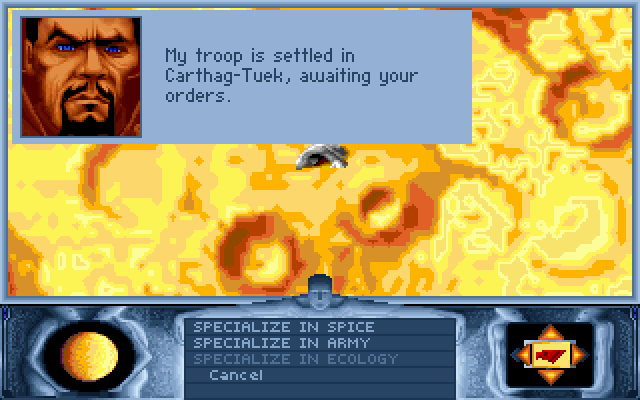
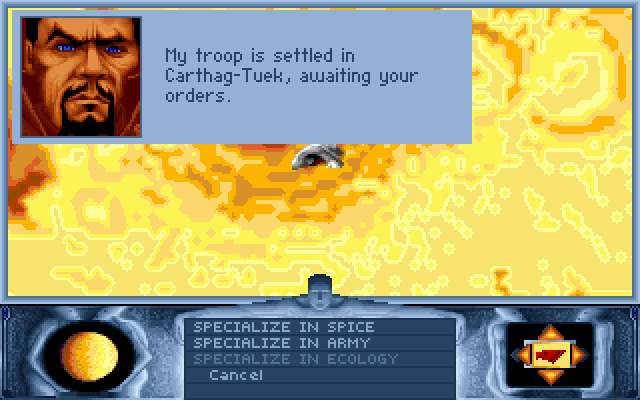
Engine fixes from the floppy video comparison; say sideload instead of naming an install tool; refresh screenshots

diff --git a/third_party/scummvm/engines/dune/scene.cpp b/third_party/scummvm/engines/dune/scene.cpp
@@ -708,7 +708,7 @@ void GameScreen::addRoomRows(RowAction *actions, int *arguments, uint16 *command
 			if (((message & 0x80) != 0) == (_commList == 1))
 				add(kRowCommPick, i, characterName(message & 0x3f));
 		}
-		add(kRowCommCancel, 0, "  Cancel");
+		add(kRowCommCancel, 0, "Cancel", true);
 		return;
 	}
 	const byte phase = _state.b(GameState::kPhase);
@@ -796,7 +796,9 @@ void GameScreen::drawRoom(int pressedRow, int pressedArrow) {
 			exits[d] = false;
 	_panel.setLeftPanel(Panel::kLeftBook);
 	_panel.setCompanions(_world.companion(0), _world.companion(1));
+	_panel.setCompassBlank(_sceneActive);
 	_panel.draw(_surface, exits, pressedRow, pressedArrow, day());
+	_panel.setCompassBlank(false);
 
 	debugSetRoom((int)_room);
 	debugOverlay(*_surface.surfacePtr());
@@ -980,7 +982,7 @@ void GameScreen::drawMapScreen() {
 		add(kRowExitMap, 0, "EXIT MAPS");
 		if (_map->selecting() && _movingTroop) {
 			if (_map->destination() >= 0)
-				add(kRowMoveDone, _map->destination(), "  Done");
+				add(kRowMoveDone, _map->destination(), "Done", true); // "  Done" on the CD, "Done" on the floppy
 		} else if (_map->selecting() && (_map->destination() >= 0 || _map->destination() == -2)) {
 			if (_riding)
 				add(kRowWormTravel, _map->destination(), "GO THERE RIDING A WORM");
@@ -1180,11 +1182,13 @@ uint GameScreen::parkedOrnis() const {
 void GameScreen::drawOrni(Graphics::Surface &target, int x, int y, uint frame) {
 	// sub_13aa9: the body (ORNYTK 0), the hub (1) at +(6,30), the legs
 	// (2 + clamp(frame - 15, 0, 5)) at +(4,50), the wings (8 + min(frame, 14))
-	// at +(-81,-3). The sheet has no palette: it wears the room's colours.
+	// at +(-81,-3). The sheet's palette chunk sets 80-96, its brown body and
+	// green canopy (without it the outlines take the room's yellows).
 	Common::Array<byte> data;
 	if (!_resources.load("ORNYTK.HSQ", data))
 		return;
 	Sprite orni(_system, data);
+	orni.setPalette();
 	orni.drawFrame(0, &target, x, y);
 	orni.drawFrame(1, &target, x + 6, y + 30);
 	orni.drawFrame((uint16)(2 + CLIP<int>((int)frame - 15, 0, 5)), &target, x + 4, y + 50);
@@ -1252,13 +1256,16 @@ void GameScreen::openMirror() {
 
 void GameScreen::drawMirror() {
 	// callback_transition_look_at_mirror (seg000:0ed0): MIRROR.HSQ's
-	// reflected bedroom (frame 1), Paul's face, then the gilt frame (2);
+	// reflected bedroom (frames 0 and 1), Paul's face, then the gilt frame (2);
 	// the menu is RESTART / LOAD / SAVE / EXIT GAME and Look away (ds:1d1e).
 	_surface.fillRect(Common::Rect(0, 0, 320, 200), 0);
 	Common::Array<byte> data, paul;
 	if (_resources.load("MIRROR.HSQ", data)) {
 		Sprite mirror(_system, data);
 		mirror.setPalette();
+		// The reflected bedroom is two frames: 0 (colours 129-141, the walls,
+		// door and shelves) and 1 (144-158); the recording shows both.
+		mirror.drawFrame(0, _surface.surfacePtr(), 0, 0);
 		mirror.drawFrame(1, _surface.surfacePtr(), 0, 0);
 		if (_resources.load("PAUL.HSQ", paul)) {
 			Sprite face(_system, paul);
@@ -1292,7 +1299,9 @@ void GameScreen::drawMirror() {
 	_panel.setLeftPanel(Panel::kLeftBook);
 	_panel.setCompanions(_world.companion(0), _world.companion(1));
 	const bool exits[4] = { false, false, false, false };
+	_panel.setCompassBlank(true); // the mirror's compass screen is dark
 	_panel.draw(_surface, exits, -1, -1, day());
+	_panel.setCompassBlank(false);
 	const byte black[3] = { 0, 0, 0 };
 	_system->getPaletteManager()->setPalette(black, 0, 1);
 	_system->copyRectToScreen(_surface.getPixels(), _surface.pitch, 0, 0, 320, 200);
@@ -1343,6 +1352,7 @@ uint GameScreen::flyToward(uint16 targetLongitude, int16 targetLatitude, int tar
 		desert.dunes = dunes;
 	}
 	const uint32 flightStart = _system->getMillis();
+	uint32 lastTimedDump = 0;
 	const bool cdView = !skipping && !dunes && !_world.floppy() && startCdFlightView();
 	auto present = [&]() {
 		if (cdView) {
@@ -1379,6 +1389,9 @@ uint GameScreen::flyToward(uint16 targetLongitude, int16 targetLatitude, int tar
 		Graphics::Surface view = _surface.surfacePtr()->getSubArea(Common::Rect(0, 0, 320, 152));
 		_surface.fillRect(Common::Rect(0, 0, 320, 200), 0);
 		_panel.applyPalette();
+		// ONMAP's palette under the sky's: the minimap's terrain (20-31) and
+		// the lavender-blue panel and minimap frame of the recordings (240-254).
+		_map->applyPalette();
 		drawSky(_system, _resources, view, kSkyNarrow, 320, skyPalette());
 		desert.render(view, _system->getMillis() - flightStart);
 		_map->drawMinimap(_surface, Common::Rect(202, 3, 318, 61), _panel);
@@ -1394,6 +1407,11 @@ uint GameScreen::flyToward(uint16 targetLongitude, int16 targetLatitude, int tar
 		_panel.draw(_surface, exits, -1, -1, day());
 		_system->copyRectToScreen(_surface.getPixels(), _surface.pitch, 0, 0, 320, 200);
 		_system->updateScreen();
+		// dune_dump_every samples the real-time flight too (flight-rt-<ms>).
+		if (dumpEveryMillis() && _system->getMillis() - lastTimedDump >= dumpEveryMillis()) {
+			lastTimedDump = _system->getMillis();
+			dumpScreen(_system, Common::String::format("flight-rt-%06u", lastTimedDump - flightStart).c_str());
+		}
 	};
 	uint32 next = _system->getMillis();
 	uint periods = 0;
@@ -1415,6 +1433,7 @@ uint GameScreen::flyToward(uint16 targetLongitude, int16 targetLatitude, int tar
 			Graphics::Surface view = _surface.surfacePtr()->getSubArea(Common::Rect(0, 0, 320, 152));
 			_surface.fillRect(Common::Rect(0, 0, 320, 200), 0);
 			_panel.applyPalette();
+			_map->applyPalette();
 			drawSky(_system, _resources, view, kSkyNarrow, 320, skyPalette());
 			desert.render(view, frozen);
 			_map->drawMinimap(_surface, Common::Rect(202, 3, 318, 61), _panel);
@@ -1897,7 +1916,7 @@ void GameScreen::drawTroop() {
 			drawEquipmentPanel(Common::Rect(panel.left + 0x49, panel.top + 3, panel.left + 0x49 + 153, panel.top + 3 + 63));
 			RowAction a[1] = { kRowEquipDone };
 			int g[1] = { 0 };
-			uint16 c[1] = { _panel.findCommand("  Done") };
+			uint16 c[1] = { _panel.findCommand("Done", true) }; // "  Done" on the CD, "Done" on the floppy
 			setRows(a, g, c, c[0] != 0xffff ? 1 : 0);
 			_panel.setLeftPanel(Panel::kLeftGlobe);
 			const bool noExits[4] = { false, false, false, false };
@@ -2670,6 +2689,10 @@ void GameScreen::drawTalk() {
 		// (paddings 40/16/16/16, seg000:9f40). The balloon starts right of the
 		// speaker's mouth box (talking_head_mouth_box_table, ds:27fa), which
 		// is where the recording's balloons begin (Leto 135, the Fremen ~155).
+		// The three voice balloons (ds:2224): the first whose height fits
+		// (paddings 40/16/16/16, seg000:9f40). The balloon starts right of the
+		// speaker's mouth box (talking_head_mouth_box_table, ds:27fa). The
+		// user prefers these smaller balloons to the recordings' larger ones.
 		static const int16 kBalloons[3][4] = { { 80, 14, 192, 72 }, { 80, 16, 200, 86 }, { 80, 8, 208, 97 } };
 		static const int16 kMouthRight[17] = { 99, 105, 140, 101, 104, 114, 109, 114, 101, 113, 126, 120, 84, 86, 119, 137, 100 };
 		const uint count = MIN<uint>(bubbleLines(), _talkLines.size() - MIN<uint>(_talkLine, _talkLines.size()));
@@ -2694,10 +2717,19 @@ void GameScreen::drawTalk() {
 		}
 	}
 	setTalkRows();
-	const bool exits[4] = { false, false, false, false };
+	// The recordings keep the room's exits lit while someone talks; a
+	// scripted scene's lines show the compass dark.
+	bool exits[4] = { false, false, false, false };
+	if (const RoomRecord *record = currentRoom())
+		for (uint direction = 0; direction < 4 && !_sceneActive && !_desert; ++direction) {
+			const byte e = record->exits[direction];
+			exits[direction] = e != 0 && (e >= World::kExitLeave || !(e & 0x80));
+		}
 	_panel.setLeftPanel(Panel::kLeftBook);
 	_panel.setCompanions(_world.companion(0), _world.companion(1));
+	_panel.setCompassBlank(_sceneActive);
 	_panel.draw(_surface, exits, -1, -1, day());
+	_panel.setCompassBlank(false);
 	debugOverlay(*_surface.surfacePtr());
 	_system->copyRectToScreen(_surface.getPixels(), _surface.pitch, 0, 0, 320, 200);
 	_system->updateScreen();
@@ -2717,11 +2749,14 @@ void GameScreen::drawBubble(const Common::Array<Common::String> &lines, uint fir
 			_panel.drawIcon(tiles, 0x1c, x, y);
 	area.copyRectToSurface(*tiles.surfacePtr(), 0, 0, Common::Rect(0, 0, box.width(), box.height()));
 	tiles.free();
-	const int padding = 12, lineHeight = 10;
-	const int width = box.width() - 2 * padding;
+	const int lineHeight = 10, leftPad = 12, rightPad = 12;
+	const int width = box.width() - leftPad - rightPad;
 	int y = box.top + (box.height() - (int)count * lineHeight) / 2;
 	for (uint i = first; i < first + count && i < lines.size(); ++i, y += lineHeight) {
-		const Common::String &line = lines[i];
+		Common::String line = lines[i];
+		const bool paragraphEnd = !line.empty() && line.lastChar() == '\x01';
+		if (paragraphEnd)
+			line.deleteLastChar();
 		Common::Array<Common::String> words;
 		Common::String word;
 		for (uint k = 0; k <= line.size(); ++k) {
@@ -2733,13 +2768,13 @@ void GameScreen::drawBubble(const Common::Array<Common::String> &lines, uint fir
 				word += line[k];
 			}
 		}
-		const bool last = i + 1 >= lines.size();
+		const bool last = i + 1 >= lines.size() || paragraphEnd;
 		int used = 0;
 		for (uint k = 0; k < words.size(); ++k)
 			used += _panel.textWidth(words[k].c_str(), false);
 		const int gaps = (int)words.size() - 1;
 		const int space = (!last && gaps > 0) ? MAX(3, (width - used) / gaps) : _panel.textWidth(" ", false) + 1;
-		int x = box.left + padding;
+		int x = box.left + leftPad;
 		for (uint k = 0; k < words.size(); ++k) {
 			_panel.drawText(_surface, words[k].c_str(), x, y, ink, false);
 			x += _panel.textWidth(words[k].c_str(), false) + space;

diff --git a/third_party/scummvm/engines/dune/map.cpp b/third_party/scummvm/engines/dune/map.cpp
@@ -77,7 +77,11 @@ byte MapRenderer::mapPixel(uint offset) const {
 }
 
 void MapRenderer::draw(Graphics::Surface &view, int16 latitude, uint16 longitude) {
-	const uint16 top = (uint16)(latitude + 75 + 5);
+	// A latitude is map row latitude + 98 (map_func, seg000:b58b: the TABLAT
+	// row is |latitude|; the globe does the same). The rows were once taken
+	// as latitude + 80, which drew the terrain 18 rows (72 pixels) north of
+	// the places (the floppy recordings: craters beside the palace).
+	const uint16 top = (uint16)(latitude + 98);
 	for (uint16 i = 0; i < kViewRows; ++i)
 		drawBand(view, i, top + i, longitude);
 }
@@ -257,7 +261,7 @@ bool MapRenderer::unproject(int16 latitude, uint16 longitude, int x, int y, int1
 	if (band < 0 || band >= kViewRows)
 		return false;
 	placeLatitude = (int16)(latitude + band);
-	const int row = placeLatitude + 75 + 5;
+	const int row = placeLatitude + 98; // as draw() and project()
 	if (row < kBandBegin || row >= kBandEnd)
 		return false;
 	const int len = rowLength((uint16)row);
@@ -283,8 +287,8 @@ bool MapRenderer::unproject(int16 latitude, uint16 longitude, int x, int y, int1
 
 bool MapRenderer::project(int16 latitude, uint16 longitude, int16 placeLatitude, uint16 placeLongitude,
 		int &x, int &y) const {
-	const int top = latitude + 75 + 5;
-	const int row = placeLatitude + 75 + 5;
+	const int top = latitude + 98;
+	const int row = placeLatitude + 98;
 	const int band = row - top;
 	if (band < 0 || band >= kViewRows || row < kBandBegin || row >= kBandEnd)
 		return false;

diff --git a/third_party/scummvm/engines/dune/panel.cpp b/third_party/scummvm/engines/dune/panel.cpp
@@ -200,9 +200,12 @@ void Panel::draw(Graphics::ManagedSurface &surface, const bool exits[4], int pre
 	icons.drawFrame(_companions[1] != 0xff ? 0x41 + _companions[1] : 64, target, 58, 182);
 
 	// Compass: centre, the position marker, then only the lit directions.
-	icons.drawFrame(33, target, 255, 162);
-	icons.drawFrame(36, target, 269, 173);
-	for (uint arrow = 0; arrow < 4; ++arrow) {
+	// Scripted scenes and the mirror show its screen dark (the recordings).
+	if (!_compassBlank) {
+		icons.drawFrame(33, target, 255, 162);
+		icons.drawFrame(36, target, 269, 173);
+	}
+	for (uint arrow = 0; arrow < 4 && !_compassBlank; ++arrow) {
 		if (!exits[arrow])
 			continue;
 		const Common::Rect rect = arrowRect(arrow);
@@ -266,7 +269,8 @@ Panel::Action Panel::hitTest(int x, int y, int &row, int &arrow) const {
 	return kActionNone;
 }
 
-void Panel::wrapText(const Common::String &text, int width, bool small, Common::Array<Common::String> &lines) const {
+void Panel::wrapText(const Common::String &text, int width, bool small, Common::Array<Common::String> &lines,
+		bool markBreaks) const {
 	Common::String line, word;
 	const uint length = text.size();
 	for (uint i = 0; i <= length; ++i) {
@@ -286,7 +290,8 @@ void Panel::wrapText(const Common::String &text, int width, bool small, Common::
 			word.clear();
 		}
 		if (c == '\r') {
-			lines.push_back(line);
+			// A forced break ends a paragraph: its line is not justified.
+			lines.push_back(markBreaks ? line + '\x01' : line);
 			line.clear();
 		}
 	}

diff --git a/third_party/scummvm/engines/dune/panel.h b/third_party/scummvm/engines/dune/panel.h
@@ -104,6 +104,8 @@ public:
 	 * @param pressedArrow compass arrow to draw pressed, or -1
 	 * @param day          the day counter shown under the book
 	 */
+	/** The compass screen dark (scripted scenes, the mirror), until cleared. */
+	void setCompassBlank(bool blank) { _compassBlank = blank; }
 	void draw(Graphics::ManagedSurface &surface, const bool exits[4], int pressedRow = -1, int pressedArrow = -1,
 			  uint day = 1);
 	/** The period of the day (0-15) for the sun and moon in the book's window (seg000:1a34). */
@@ -125,7 +127,8 @@ public:
 	uint16 findCommand(const char *text, bool prefix = false) const;
 
 	/** Word-wraps @p text to @p width pixels in the small or the 9-row font; '\r' forces a line break. */
-	void wrapText(const Common::String &text, int width, bool small, Common::Array<Common::String> &lines) const;
+	void wrapText(const Common::String &text, int width, bool small, Common::Array<Common::String> &lines,
+			bool markBreaks = false) const;
 	/** The game font: 9-row glyphs at 256, or the 7-row small set at 1408. */
 	void drawText(Graphics::ManagedSurface &surface, const char *text, int x, int y, byte colour, bool small) const;
 	int textWidth(const char *text, bool small) const;
@@ -154,6 +157,7 @@ public:
 	const Common::Array<byte> &characterSheet() const { return _characters; }
 
 private:
+	bool _compassBlank = false;
 	enum {
 		kCommandLeft = 92,
 		kCommandRight = 228,

diff --git a/third_party/scummvm/engines/dune/world.h b/third_party/scummvm/engines/dune/world.h
@@ -157,8 +157,14 @@ public:
 		 * and the game clock advances every 12000 ticks (seg000:ef6a).
 		 */
 		kPeriodMillis = 59906,
-		/** Real milliseconds per flight step (0x300 PIT ticks, seg000:4f0c); a step is one map cell. */
-		kFlightStepMillis = 3834
+		/**
+		 * Real milliseconds per map cell in flight. travel_pump (seg000:4f0c)
+		 * steps every 0x300 ticks of the 200 Hz counter (3.83 s), but the
+		 * floppy recordings show about 0.64 s a cell over several flights
+		 * (Palace -> Carthag-Tuek, 20 cells, about 12 s); the step's distance
+		 * is not decoded yet, so the recordings' pace is used.
+		 */
+		kFlightStepMillis = 640
 	};
 
 	World(GameState &state, Resource &resources, StartupLog &log);

diff --git a/third_party/scummvm/engines/dune/debug.h b/third_party/scummvm/engines/dune/debug.h
@@ -42,7 +42,7 @@ namespace Dune {
 /**
  * Bring-up aids shared by the whole engine. None of this is game logic.
  *
- * Why it exists: the target device (an iPhone, installed through TrollStore)
+ * Why it exists: the target device (an iPhone, the app sideloaded)
  * offers no debugger and no console, and screenshots cannot be taken from the
  * build machine's shell. So the engine writes a plain-text log through the
  * save manager, which the user can copy off the phone, and can dump its own

diff --git a/third_party/scummvm/engines/dune/scene.h b/third_party/scummvm/engines/dune/scene.h
@@ -398,6 +398,7 @@ private:
 	void setTalkRows();
 	void drawBubble(const Common::Array<Common::String> &lines, uint first, uint count, const Common::Rect &box, byte ink);
 	uint bubbleLines() const;
+
 	void presentVerb(uint list);
 	/** set_game_phase_and_trigger_callbacks (seg000:121f). */
 	void setGamePhase(byte phase);

diff --git a/third_party/scummvm/engines/dune/FINDINGS.md b/third_party/scummvm/engines/dune/FINDINGS.md
@@ -703,15 +703,15 @@ track.
 ## Platform and workflow decisions
 
 - **ScummVM engine rather than DOSBox or the C# hybrid**: `README_PLAN.MD`. The
-  DOSBox variant is parked (TrollStore registration error 181).
+  DOSBox variant is parked (the sideloaded app failed with registration error 181).
 - **Desktop first**: every change is checked on the SDL build with screenshot
   dumps before a device build, because a device round trip needs the user
-  (TrollStore install, AirDrop of logs).
+  (sideloading, AirDrop of logs).
 - **Device facts**: iPhone 14 Pro, iOS 16.4.1. `devicectl` can never pair
   (CoreDevice needs iOS 17). `pymobiledevice3` reads the syslog over USB but
-  cannot install an ad-hoc-signed IPA or open the app container (TrollStore
-  registers the app as a System app). The IPA is served over HTTP with an
-  `apple-magnifier://install?url=` link; logs come back by AirDrop.
+  cannot install an ad-hoc-signed IPA or open the app container (the sideloading
+  tool registers the app as a System app). The IPA is served over HTTP with an
+  install link; logs come back by AirDrop.
 - **Audio on iOS**: ScummVM's iOS backend sets no audio session category, so
   the app runs as SoloAmbient and the phone's ring/silent switch mutes it
   entirely; and a single failed `AudioQueueStart` (seen once in a device log as

diff --git a/scripts/PREFLIGHT.md b/scripts/PREFLIGHT.md
@@ -1,6 +1,6 @@
 # Preflight: check every build locally before making an IPA
 
-Installing an IPA costs the user a manual TrollStore transfer and a screen
+Installing an IPA costs the user a manual sideload and a screen
 recording. Never ask for that until the build has passed this check on the Mac.
 
 ## One command
@@ -64,7 +64,7 @@ and the `Audio:` line should say the mixer is ready.
 ## Then, and only then
 
 ```sh
-./scripts/build_dune_scummvm_ios.sh     # ad-hoc signed IPA for TrollStore
+./scripts/build_dune_scummvm_ios.sh     # ad-hoc signed IPA for sideloading
 ```
 
 Check the log ends in `** BUILD SUCCEEDED **`, note the printed SHA-256, and
@@ -75,8 +75,8 @@ cp notes/temp/dune_scummvm_engine_20260916/packages/ScummVM-ios-dune-prototype.i
 cd /tmp/serve && python3 -m http.server 8642 --bind 0.0.0.0
 ```
 
-and tell the user the `http://<LAN-ip>:8642/` link (the page offers a TrollStore
-`apple-magnifier://install?url=...` link). Keep the previous IPA alongside the
+and tell the user the `http://<LAN-ip>:8642/` link (the page offers an
+install link). Keep the previous IPA alongside the
 new one so a regression can be compared.
 
 ## Notes

diff --git a/docs/scummvm-engine-proposal.md b/docs/scummvm-engine-proposal.md
@@ -39,7 +39,7 @@ The current prototype can:
 - play the HERAD OPL2/AdLib music format through ScummVM's OPL emulator;
 - draw the original pointer and accept direct touch on iOS;
 - reproduce the first portion of the floppy intro through the DUNE title; and
-- run native/null, SDL screenshot, audio-capture, and iOS/TrollStore checks.
+- run native/null, SDL screenshot, audio-capture, and iOS device checks.
 
 These are real format and renderer milestones, not a claim of complete game
 compatibility. Game logic, dialogue, command scripts, characters, saves,
@@ -77,7 +77,7 @@ The repository contains the following repeatable checks:
 
 The SDL dump produces intro and room screenshots. The audio smoke test
 confirms that a real Dune CD resource is decoded and submitted to the mixer.
-The iOS build is ad-hoc signed for development/TrollStore installation; the
+The iOS build is ad-hoc signed for development and sideloading; the
 device evidence is retained under
 `notes/temp/dune_scummvm_engine_20260916/`.
 

diff --git a/BUILDING.md b/BUILDING.md
@@ -160,7 +160,7 @@ ad-hoc signs
 - The SDK defaults to `iphoneos26.5`. Set `IOS_SDK=iphoneos<version>` to match
   your Xcode (`xcodebuild -showsdks`).
 - `DUNE_DEBUG=1` builds with the engine's debug overlay.
-- The IPA is ad-hoc signed. Install it with TrollStore, or re-sign it with
+- The IPA is ad-hoc signed. Sideload it, or re-sign it with
   your own development certificate. It contains no game data: copy the data
   into the app's documents folder (e.g. with the Files app) and add the game in
   ScummVM.

diff --git a/third_party/scummvm/engines/dune/README.md b/third_party/scummvm/engines/dune/README.md
@@ -108,7 +108,7 @@ DUNE_DATA=/private/tmp/dune-data/floppy ./scripts/test_dune_scummvm_sdl.sh dump 
 # Null-backend build and detection test.
 ./scripts/test_dune_scummvm_native.sh
 
-# iOS IPA (ad-hoc signed, for TrollStore).
+# iOS IPA (ad-hoc signed, for sideloading).
 ./scripts/build_dune_scummvm_ios.sh
 ```
 
